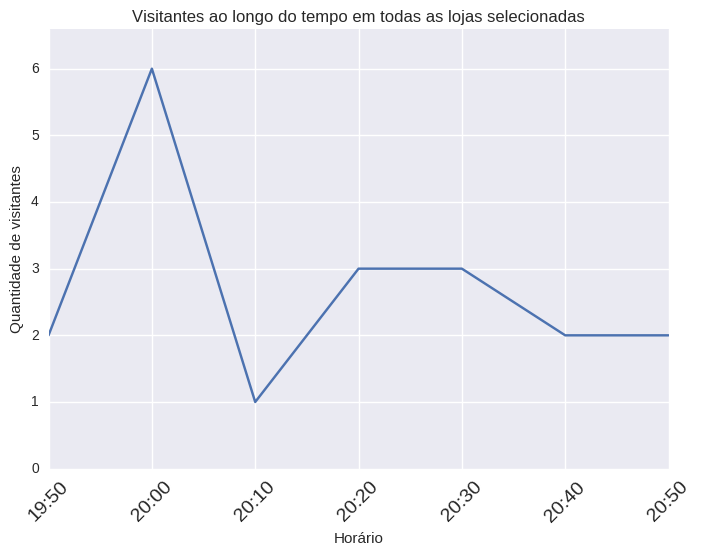
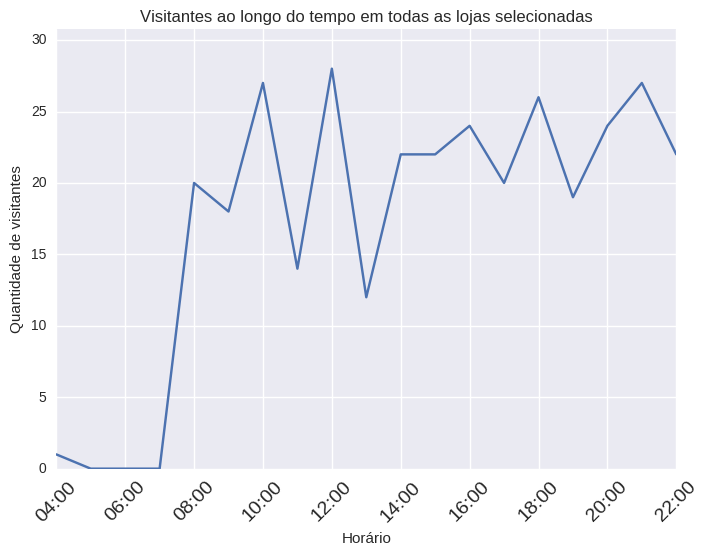
heat map I

diff --git a/templates/historical.html b/templates/historical.html
@@ -1,52 +1,81 @@
-           <div class="row marketing"> 
-            <form action="/" method="post">
-             <label for="calendario">Data</label>
-           <input id="calendario" type="text" name="calendario" />
-           </form>
+ <meta id="histTimeData" data-name="{{valid}}">
+             <div class="row marketing"> 
+                <div class="col-sm-4">
+                   <select id="histTimeStores" class="selectpicker" data-style="btn-primary" data-live-search="true" multiple title="Selecione o local">
+                      <optgroup label="Geral" data-max-options="1">
+                        <option value="cat_Todas">Todas as lojas</option>
+                        {% for category in categories_dropdown %}
 
-            <div class="col-sm-4">
-               <select id="histTimeStores" class="selectpicker" data-style="btn-primary" data-live-search="true" multiple title="Selecione o local">
-                  <optgroup label="Geral" data-max-options="1">
-                    <option>Todas as lojas</option>
-                    <option>Alimentação</option>
-                    <option>Roupas</option>
-                  </optgroup>
-                  <optgroup label="Lojas" data-max-options="10">
-                    {% for store in stores_dropdown %}
-                      <option value="{{ store }}">{{ store }}</option>
-                    {% endfor %}
-                  </optgroup>
-               </select>
+                          <option value="{{ "cat_" + category  }}">{{ category }}</option>
+                          }
+                        {% endfor %}
+                      </optgroup>
+                      <optgroup label="Lojas" data-max-options="10">
+                        {% for store in stores_dropdown %}
+                          <option value="{{ store }}">{{ store }}</option>
+                        {% endfor %}
+                      </optgroup>
+                   </select>
+                </div>
+
+                <div class="col-sm-3">
+                   <p><input type="text" id="start_date"></p>
+                </div>
+
+                <div class="col-sm-3">
+                   <p><input type="text" id="end_date"></p>
+                </div>
+
+                <div class="col-sm-2" align="center">
+                    <button id="genHistTime" type="button" class="btn btn-default">Gerar</button>
+                </div>
+
             </div>
 
-            <div class="col-sm-4">
-               <select id="histTime" class="selectpicker" data-style="btn-primary">
-                    <option>Última hora</option>
-                    <option>Dia todo</option>
-               </select>
-            </div>
+            <div hidden id="tab3_content">
+              {% if True %}
+                <div class="row marketing">
+                    <h4>Gráfico da série agregada</h4>
+                    <div class="col-sm-8"> 
 
-            <div class="col-sm-4" align="center">
-                <button id="genHistTime" type="button" class="btn btn-default">Gerar</button>
-            </div>
-          </div>
+                      <img id="histTimeGraph1" src="{{ graph1_hist }}" width="100%"/>
+                    </div>
 
+                    <div class="col-sm-4">
+                    <br><br><br>
+                      <ul>
+                        <p> <b>Quantidade máxima de visitantes:</b> <span id="max_hist"> {{ descriptive_dict_hist["max"] }} </span><p>
+                        <p> <b>Horário do máximo:</b> <span id="max_time_hist"> {{ descriptive_dict_hist["max_time"] }} </span><p>
+                        <p> <b>Visitantes únicos:</b> <span id="unique_guests_hist"> {{ descriptive_dict_hist["unique_guests"] }} </span><p>
+                      </ul>
+                    </div>
+                </div>
 
+                <div class="row marketing">
+                    <div class="col-sm-12">
+                      <h4>Séries individuais</h4>
+                      <img id="histTimeGraph2" src="{{ graph2_hist }}" width="100%" align="left" />
 
-            <div class="row marketing">
-              <div class="col-sm-8">
-               {% if graph1_hist: %}
-                <h4>Gráfico da série agregada {{ graph1_hist }}</h4>
-                {% print(graph1_hist) %}
-                <img src="{{ graph1_hist }}" width="100%"/>
-              </div>
+                    </div>
+                </div>
 
-              <div class="col-sm-4">
-                <h4>Análise</h4>
-                <p>Vários dados!</p>
-                {{ analytics_hist1 }}
-              </div>
+                 <div class="row marketing">
+                    <div class="col-sm-12">
+                      <h4>Visitantes únicos</h4>
+                      <img id="histTimeGraph3" src="{{ graph3_hist }}" width="100%" align="left" />
+
+                    </div>
+                </div>
               {% else: %}
-              <p>Selecione um período e loja(s).</p>
+                <div class="row marketing">
+                  <div class="col-sm-12">
+                    <p align="center">Selecione o período desejado. </p>
+                  </div>
+                </div>
+                {% if invalid_hist: %}
+                  {% include 'templates/invalid.html' %} 
+                {% else: %}
+
+                {% endif %}
               {% endif %}
             </div>

diff --git a/static/js/parameters.js b/static/js/parameters.js
@@ -1,6 +1,11 @@
 $(document).ready(function() {
 	var pathname = window.location.pathname;
 	console.log('Path name:' + pathname);
+
+    $( function() {
+    	$( "#start_date" ).datepicker();
+    	$( "#end_date" ).datepicker();
+  	} );
 	//window.alert(pathname)
 
 	$( "#genRealTime" ).click(function() {
@@ -84,33 +89,76 @@ $(document).ready(function() {
     	return $("#TabList").tabs('option', 'selected');
 	}
 
-	$( "#tab2" ).click(function() {
-		//$.post( "/historico", { selected_stores: texto, time: "2pm" });
+	// $( "#tab2" ).click(function() {
+	// 	//$.post( "/historico", { selected_stores: texto, time: "2pm" });
 
-	});
+	// });
 
-	$("#tab2").on("click", function() {
-		aqui = getSelectedTabIndex()
- 		alert(aqui);
-		});
+	// $("#tab2").on("click", function() {
+	// 	aqui = getSelectedTabIndex()
+ // 		alert(aqui);
+	// 	});
 
+
+
+	// $( "#genHistTime" ).click(function() {
+	//   texto = $('select#histTimeStores').val().join()
+	//   time = $('select#histTime').text()
+	//   alert("eu vou a luta"); 
+	//   alert(texto);  
+	//   alert(time);    
+	//   $.post( "/historico", { selected_stores: texto, time: time });
+
+ //     $('#tab2').find('img').fadeOut(1000);
+ //      //$('img').attr('src', $('img').attr('src') + '?' + Math.random());
+
+ //      $('#tab2').find('img').each(function(){
+ //      		$(this).attr('src', $(this).attr('src') + '?' + Math.random());
+ //    	});
+ //      $('#tab2').find('img').fadeIn(1000);
+	// });
 
 
 	$( "#genHistTime" ).click(function() {
 	  texto = $('select#histTimeStores').val().join()
-	  time = $('select#histTime').text()
-	  alert("eu vou a luta"); 
-	  alert(texto);  
-	  alert(time);    
-	  $.post( "/historico", { selected_stores: texto, time: time });
+	  start = $('#start_date').val()
+	  end = $('#end_date').val()
 
-     $('#tab2').find('img').fadeOut(1000);
-      //$('img').attr('src', $('img').attr('src') + '?' + Math.random());
+	  $.post("/historical", { selected_stores: texto, start_date: start, end_date: end}, function(response) {
+ 		
+  		if(!response.valid_hist) {
+  			alert("Consulta sem retorno!");
+	      $('img').fadeOut(150);
+		  $('#tab3').find('img').each(function(){
+		  		$(this).attr('src', "static/images/wally.jpg");
+			});
+		  $('img').fadeIn(150);
+  		}
+  		else {
 
-      $('#tab2').find('img').each(function(){
-      		$(this).attr('src', $(this).attr('src') + '?' + Math.random());
-    	});
-      $('#tab2').find('img').fadeIn(1000);
+	  		   $("#histTimeGraph1").attr('src', response.graph1_hist);
+  		 	   $("#histTimeGraph2").attr('src', response.graph2_hist);
+  		 	   $("#histTimeGraph3").attr('src', response.graph3_hist);
+  		 	   $("#max_hist").text(response.descriptive_dict_hist.max);
+  		 	   $("#max_time_hist").text(response.descriptive_dict_hist.max_time);
+  		 	   $("#unique_guests_hist").text(response.descriptive_dict_hist.unique_guests);
+
+  		 	   if(!$("#tab3_content").is(":visible")) 
+  		 	   		$("#tab3_content").show()
+
+
+		  $('#tab3').find('img').each(function(){
+		  	$(this).fadeOut(150, function(){
+  					$(this).attr('src', $(this).attr('src') + '?' + Math.random()).bind('onreadystatechange load', function(){
+     					if (this.complete) $(this).fadeIn(800);
+ 					 });
+					});
+			});
+  		}
+	}, 'json');
+
+
+
 	});
 
 });

diff --git a/static/js/heatmap.js b/static/js/heatmap.js
@@ -1,0 +1,42 @@
+$(document).ready(function() {
+	// var pathname = window.location.pathname;
+	// console.log('Path name:' + pathname);
+	//window.alert(pathname)
+
+
+	///Conferir se a aba ativa é o heatmape então posso passar a atualizar
+	///dentro de um intervalo
+	// $('li[role="presentation"]').each(function( index ) {
+	// 	if($(this).children().attr('href') == pathname) {
+	// 		if($(this).text() == "Mapa de Calor") {
+	// 						if(!$(this).hasclass("active")) {
+	// 							$("#floor_1").attr('src', "static/images/floor_1_clean.jpg");
+	// 					 		$("#floor_2").attr("src", "static/images/floor_1_clean.jpg");
+	// 					}}
+ //  		 	}
+	// });
+
+
+	$(document).ready(function() {
+	var dt = 0
+	setInterval(function() {
+	  dt += 1;
+	  timer = 30 - (dt % 30)	
+	  //$('#clock').text(get_elapsed_time_string(elapsed_seconds));
+	  $('#heatTimer').text(pretty_time_string(timer));
+	}, 1000);
+});
+
+
+
+	$( "#genHeatMap" ).click(function() {
+
+		$("#heatTimer").show();
+		$("#heatTimer").addClass("active");
+		$("#floor_1").attr('src', "static/images/floor_1_clean.png");
+		$("#floor_2").attr("src", "static/images/floor_2_clean.png");
+		$("#heat_content").show();
+
+	});
+
+});

diff --git a/templates/head.html b/templates/head.html
@@ -8,6 +8,7 @@
     <script src="../static/js/header.js"></script>
     <script src="../static/js/parameters.js"></script>
     <script src="../static/js/clock.js"></script>
+    <script src="../static/js/heatmap.js"></script>
 
     <!--Coisas da tab -->
   	<link rel="stylesheet" href="https://maxcdn.bootstrapcdn.com/bootstrap/3.3.7/css/bootstrap.min.css">
@@ -27,3 +28,7 @@
   <script type="text/javascript" src="http://ajax.microsoft.com/ajax/jquery.ui/1.8.5/jquery-ui.js"></script>
 <script type="text/javascript" src="../static/js/calendario.js"></script>
 <link type="text/css" rel="Stylesheet" href="http://ajax.microsoft.com/ajax/jquery.ui/1.8.5/themes/redmond/jquery-ui.css" />
+  <link rel="stylesheet" href="//code.jquery.com/ui/1.12.1/themes/base/jquery-ui.css">
+  <link rel="stylesheet" href="/resources/demos/style.css">
+  <script src="https://code.jquery.com/jquery-1.12.4.js"></script>
+  <script src="https://code.jquery.com/ui/1.12.1/jquery-ui.js"></script>

diff --git a/templates/heatMap.html b/templates/heatMap.html
@@ -1,1 +1,16 @@
-          <p>Mapa de calor</p>
+          
+            <div class="row marketing">
+	            <div class="col-sm-12" align="center">
+	                    <button id="genHeatMap" type="button" class="btn btn-default">Gerar</button>
+	            </div>
+            </div>
+
+          <div hidden id="heat_content">
+          	  <p align="center"> Próxima atualização em: <span id="heatTimer"></span></p>
+	          <h4>Primeiro piso</h4>
+
+	          <img id="floor_1" src="{{ graph3_hist }}" width="100%" align="center" />
+
+	          <h4>Segundo piso</h4>
+	          <img id="floor_2" src="{{ graph3_hist }}" width="100%" align="center" />
+          </div>

diff --git a/templates/index.html b/templates/index.html
@@ -10,7 +10,7 @@
       {% include 'templates/header.html' %}
       <ul class="nav nav-tabs">
         <li class="active"><a data-toggle="tab" href="#tab1">Tempo Real</a></li>
-        <li><a data-toggle="tab" href="#tab2">Mapa de Calor</a></li>
+        <li value="1"><a data-toggle="tab" href="#tab2">Mapa de Calor</a></li>
         <li><a data-toggle="tab" href="#tab3">Histórico</a></li>
         <li><a data-toggle="tab" href="#tab4">Previsão</a></li>
         <li><a data-toggle="tab" href="#tab5">Lojas Similares</a></li>

diff --git a/pandas_functions.py b/pandas_functions.py
@@ -44,7 +44,7 @@ def build_aggregate_serie(df):
 
 def build_each_store_serie(df, filename, title=" ", legend=False, how='M'):
 	stores = df["nome"].unique()
-
+	print(df.head())
 
 	max_value = 0
 	final_xticks_labels = []
@@ -63,14 +63,14 @@ def build_each_store_serie(df, filename, title=" ", legend=False, how='M'):
 
 	
 		plt.plot(df2, label=store)
-
-
-
+	print(df2.head())
 
 	### WIN
 	import matplotlib.dates as mdates
-	timeFmt = mdates.DateFormatter('%H:%M')
-	ax.xaxis.set_major_formatter(timeFmt)
+	if how == "H":
+		print("\n\n\n\nFORMATAO")
+		timeFmt = mdates.DateFormatter('%H:%M')
+		ax.xaxis.set_major_formatter(timeFmt)
 
 	plt.title(title)
 	plt.xlabel("Horário")
@@ -103,6 +103,21 @@ def realTimeFilters(df, option=0):
 
 	return df
 
+def histTimeFilters(df, start, end):
+
+	#todays_data = [True if x.date() == datetime.today().date() else False for x in df["date"]]
+	df = df[(df["date"] > start) & (df["date"] < end)]
+	
+
+	# if option == 1:
+	# 	hour_data = [True if ( x.time() <= datetime.today().time() and
+	# 						   x.time() >= (datetime.today() - timedelta(minutes=60)).time()) else False for x in df["date"]]
+
+	# 	df = df[hour_data]
+	
+
+	return df
+
 def build_descriptive_dict(df, how='M'):
 
 	descriptive_dict = dict()
@@ -110,8 +125,11 @@ def build_descriptive_dict(df, how='M'):
 
 	df = df.set_index('date')
 	df = df.resample(how).sum()
-	descriptive_dict["max"] = df["pessoas"].max()
-	descriptive_dict["max_time"] = df["pessoas"].idxmax().strftime("%H:%M")
+	descriptive_dict["max"] = int(df["pessoas"].max())
+	if how != "M":
+		descriptive_dict["max_time"] = df["pessoas"].idxmax().strftime("%H:%M")
+	else:
+		descriptive_dict["max_time"] = df["pessoas"].idxmax()
 	
 
 	return descriptive_dict
@@ -139,7 +157,16 @@ def build_unique_bar(df, filename, title, legend):
 def return_selected_stores(query_string, all_stores, conn):
 
 	if  "cat_" not in query_string > 1:
-		selected_stores = query_string.split(",")
+		print(query_string)
+		print("," in query_string)
+		if "," in query_string:
+			selected_stores = query_string.split(",")
+		else:
+			selected_stores = []
+			selected_stores.append(query_string)
+		return selected_stores
+
+			
 	else:
 		selected_stores = query_string[4:]
 		if selected_stores == "Todas":
